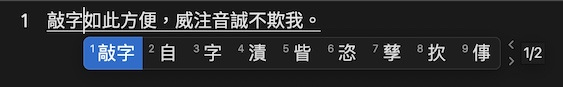
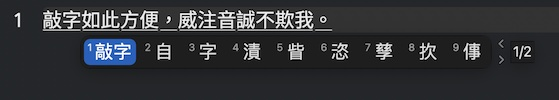
Update version notice: v1.9.3 for macOS.

diff --git a/README.md b/README.md
@@ -7,20 +7,17 @@ nav_order: 1
 
 | 作業系統 (至少) | 下載及發行說明 | 更新履歷 | 程式碼倉庫 | 版本＆日期 |
 |-------|----|----|----|----|
-| macOS (10.11.5) | [GitHub](https://github.com/vChewing/vChewing-macOS/releases), [Gitee](https://gitee.com/vChewing/vChewing-macOS/releases) | [GitHub](https://github.com/vChewing/vChewing-macOS/wiki/%E6%9B%B4%E6%96%B0%E5%B1%A5%E6%AD%B7), [Gitee](https://gitee.com/vChewing/vChewing-macOS/wikis/sort_id=5401886) | [GitHub](https://github.com/vChewing/vChewing-macOS/), [Gitee](https://gitee.com/vChewing/vChewing-macOS/) | 1.9.1 SP2 (Aug 11, 2022) |
+| macOS (10.11.5) | [GitHub](https://github.com/vChewing/vChewing-macOS/releases), [Gitee](https://gitee.com/vChewing/vChewing-macOS/releases) | [GitHub](https://github.com/vChewing/vChewing-macOS/wiki/%E6%9B%B4%E6%96%B0%E5%B1%A5%E6%AD%B7), [Gitee](https://gitee.com/vChewing/vChewing-macOS/wikis/sort_id=5401886) | [GitHub](https://github.com/vChewing/vChewing-macOS/), [Gitee](https://gitee.com/vChewing/vChewing-macOS/) | 1.9.3 (Aug 14, 2022) |
 
 - 請參閱[《鍵盤熱鍵使用手冊》](./manual/shortcuts.md)以提升該輸入法的使用效率。
 - 另有[熱心網友製作的 Homebrew-Cask 安裝方式](https://github.com/windwords/homebrew-vchewing)可用。
 
-部分近期更新內容（v1.9.1 SP2 for macOS）：
+部分近期更新內容：
 
-- 針對 macOS 10.15 Catalina 啟用新版偏好設定視窗（之前僅對 macOS 11 開始的系統開放）。
-- 修正了針對舊版系統（macOS 10.11-14）的偏好設定視窗當中的一處開關失效故障。
-- 修正了天權星組字引擎 2.0.0 內部的某處不慎引入的缺陷，現在應該不會再崩潰了。
-- 針對所有類型的使用者語彙檔案，新增了可以應對「以大寫字母書寫的漢語拼音」的能力。
-- 載入使用者語言模組時，現在會根據某些功能模式的開關狀態按需載入。
-- 優化了在將拼音字串轉注音時的效率。這有助於提升使用者語彙檔案的載入速度。
-- 允許採用特殊手段修改逐字選字模式下的候選字的排序（下文會有介紹）。
+- [1.9.3] 允許在偏好設定面板的「開發道場」頁面徹底停用「Shift 鍵切換中英文輸入模式」、抑或是指定 Shift 鍵判定相容性處理的有效作用 App 範圍。
+- [1.9.2-1.9.3] 在「開發道場」內引入了實驗性的 IMK 選字窗支援（橫向的話則是 IMK 矩陣視窗）。
+- [1.9.2-1.9.3] 在偏好設定面板內引入了「開發道場」頁面、專門用來放置一些實驗性的功能。
+- [1.9.2] 修正了（在選詞範圍 Range 超出讀音陣列容量的情況下）加詞時「會因為字數與讀音數不批配」而導致的輸入法崩潰的問題。
 
 本文的 FAQ 會不定期更新來自 PTT 的提問。
 
@@ -31,8 +28,8 @@ nav_order: 1
 該輸入法恐怕是截至目前為止**在功能多樣性方面**最強的第三方免費 macOS 系統專用輸入法，採純 Swift 語言寫就。威注音的著力點不是去想著怎麼用指針，而是盡可能在力所能及的範圍內將整個產品的功能做得更好用。
 
 ![選字窗有頁碼提示。](assets/CandidateSelection.jpg)
-
 ![就地刪詞功能，隨時隨地將不想要的詞音配對塞入排除表內。](assets/CandidateFiltering.jpg)
+![IMK 選字窗。](assets/CandidateSelectionIMK.jpg)
 
 威注音的幾個產品目標：
 
@@ -113,6 +110,23 @@ Mac OS X 10.11.5 以上版本（因為要求至少 Unicode 8.0）。
 ### 問：威注音輸入法的圖示當中的「ㄋ」是？
 
 威注音的圖示「ㄋ」取自 Komica 糟糕島流行的與劉寶傑有關的梗「[貼ㄋㄟㄋㄟ救寶傑](https://disp.cc/b/Joke/2sZ0)」。
+
+
+### 問：選字窗可以改成 macOS 內建注音那種橫版陣列型選字窗嗎？
+
+您可能想說的是 IMK 選字窗。IMK 選字窗是 macOS 內建的 InputMethodKit 輸入法開發套裝模組當中的 IMKCandidates 子模組所實現的東西。但是，Zonble 十幾年前證明過了、且威注音這邊最近也再次證明了：IMKCandidates 在這十幾年以來一直都是爛貨、是能將賈伯斯氣得從棺材裡爬出來的殘次品。如果這個模組的研發團隊有設計過單元測試的話，他們自己明明就可以發現這些低級智障問題。但他們選擇了裝鴕鳥，給系統內建的輸入法用了一個 IMKCandidates 的克隆版本、僅供 Apple 內部使用（感興趣的話可以自行對 InputMethodKit 逆向工程）。至於給副廠輸入法開發者使用的 IMKCandidates 再怎樣殘障，他們這十幾年來一直都沒有在管。
+
+由於 IMK 橫版陣列型選字窗的功能特性獨此一家，使得第三方輸入法開發者想在功能方面「複製體驗」簡直難比登天。迄今為止對此操作體驗複製得最接近的是搜狗拼音輸入法，但在使用體驗角度來看仍舊遠遠落後於 IMK 橫版陣列選字窗。
+
+威注音輸入法自 v1.9.2 版開始，在偏好設定內引入了專門用來提供「出了錯誤不負責」的名為「開發道場」的實驗田，且在其中集成了威注音的 IMK 選字窗模式的開關、允許使用者在 IMK 選字窗與迄今為止的 Voltaire MK3 選字窗之間來回切換。之後，威注音輸入法在 v1.9.3 版當中將這個選字窗做得幾乎接近於能用的狀態。可以[點此閱讀使用說明](./manual/shortcuts.md)。然而，該選字窗仍舊有下述功能無法實現：
+
+- 選字鍵不起作用。IMK 選字窗的 setSelectionKeys() 與 setSelectionKeysKeylayout() 函數都不會起任何正面作用（前者用了反而會讓選字窗連選字鍵標記都不顯示）。不知道 Apple 的相關單元測試工程師閒了多少年（至少也得有十幾年了），都沒想過要去寫單元測試來檢查這種低級缺陷的存無。
+- 選字窗字號大小無法調整。
+- IMK 選字窗本身會被 Spotlight 視窗蓋住，且目前尚無手段強制修改其視窗顯示優先層級。偏偏 macOS 系統內建輸入法用的是 IMK 的非公開變種、就沒有這種問題。氣不氣人？
+
+此外，IMKCandidates 還有一個缺陷：當候選字詞陣列內出現了「候選字詞相同（往往是 Emoji）、但讀音數（幅位長度）不同」的多個候選字詞時，只有讀音數最多的那個候選字會生效：你選其它更短的讀音數的同名候選字，也只會被認為是選了讀音數最多的那個候選字。該問題的原因在於 IMK 選字窗不允許你獲取「被選取的候選字詞在候選字詞陣列當中的排序編號」這個極為重要的資訊、也不允許你藉由 candidates() 生成的 NSAttributedString 往 candidateSelected() 攜帶候選字詞的讀音資料（.attachment 也好，.tooltip 也好，這些資料都會被 IMK 濾除掉），自然無法在 candidateSelected() 函數內將 fixNode() 的行為用讀音來精準化。威注音輸入法在 v1.9.3 版當中引入了一個保守治療方法，代價就是會讓某些候選字在選字窗內顯示時變得又臭又長。
+
+結論：很多使用者都希望能在自己喜歡的副廠輸入法內用上 IMK 的矩陣選字窗（就是 macOS 系統內建的注音輸入法的橫版矩陣選字窗）。然而，經過這些天的研究，威注音輸入法團隊不得不認清（目前能推斷出來的）唯一可能事實：IMK 選字窗充其量也只是 Apple 用來滿足自家輸入法需求的產品部件、一開始就沒有讓副廠輸入法廠商用得爽的打算。
 
 ### 問：怎樣才能繞過組字區直接輸入大寫或小寫英文字母？
 
@@ -200,7 +214,9 @@ Mac OS X 10.11.5 以上版本（因為要求至少 Unicode 8.0）。
 
 ### 問：選字鍵可以改 ASDF 之類的嗎？
 
-在偏好設定的第二頁可以改，輸入的選字鍵序列會被自動去重複、再做合規性判定。
+威注音輸入法預設的選字窗可以修改選字鍵：在偏好設定的第二頁或者第四頁可以改（取決於你在用的 macOS 系統版本），輸入的選字鍵序列會被自動去重複、再做合規性判定。
+
+偏好設定介面內的開發道場裡面的 IMK 選字窗是無法修改選字鍵的、且根本連預設的選字鍵都失效。因為 macOS 內建的 IMK 選字窗模組十幾年來都沒被修正的缺陷的存在，威注音的 IMK 選字窗無法實現這些功能。
 
 ### 問：請問可以自己增加字庫嗎？
 

diff --git a/manual/shortcuts.md b/manual/shortcuts.md
@@ -73,7 +73,7 @@ nav_order: 80
 | ⎋ | 清空整個組字區 | 可在偏好設定內停用，屆時僅會清空注拼槽。 |
 | 右⇧<br />左⇧ | 切換英數輸入模式的開關。 | 左⇧可在偏好設定內停用。 |
 
-下述熱鍵則為**選字窗正在顯示（也就是你正在選字）時**可以用的功能：
+下述熱鍵則為**預設 Voltaire MK3 選字窗正在顯示（也就是你正在選字）時**可以用的功能：
 
 | 熱鍵 | 功能 | 備註 |
 |-:|-|-|
@@ -84,5 +84,19 @@ nav_order: 80
 | ↖<br />↘ | 選中第一個候選字<br />選中最後一個候選字 | 多餘的操作會觸發蜂鳴。 |
 | ⎋<br />⌫<br />⌦<br />⇧→<br />⇧← | 回退到上一層符號選單、或關掉選字窗 | 不是波浪符號選單的場合，一律關掉選字窗。<br />其中，Esc 按鍵會直接導致 Spotlight 關閉。 |
 | 摁住 ⇧<br />敲選字鍵 | 選擇指定的聯想候選詞（會有^標記） | 與奇摩輸入法行為一致。 |
+
+下述熱鍵則為在開發道場內啟用的**IMK 選字窗正在顯示（也就是你正在選字）時**可以用的功能：
+
+（所述「行」均指橫行。）
+
+| 熱鍵 | 功能 | 備註 |
+|-:|-|-|
+| ⏎ | 確認選字窗內的當前候選字 | 聯想詞選字時，該功能可在偏好設定內啟用或停用。 |
+| ⇥<br />⇧⇥ | 選字窗內選中下一個候選字（正向輪替）<br />選字窗內選中上一個候選字（反向輪替） | 可以在偏好設定內更改輪替對象為頁，但是有例外：<br />當候選字詞只有一頁時，輪替對象仍為候選字詞本身。 |
+| ␣<br />⇧ ␣ | 正向輪替頁面或者陣列行 | 當候選字詞只有一頁/一行、<br />或者在最末/最初行時，<br />不會從最初/最末行繼續輪替。 |
+| ⇞<br />⇟ | 翻頁/輪替陣列行 | 候選字詞只有一頁時，輪替對象為候選字詞本身。 |
+| ⎋<br />⌫<br />⌦<br />⇧→<br />⇧← | 回退到上一層符號選單、或關掉選字窗 | 不是波浪符號選單的場合，一律關掉選字窗。<br />其中，Esc 按鍵會直接導致 Spotlight 關閉。 |
+
+IMK 選字窗因為 IMKCandidates 自身缺陷的原因，無法將體驗做得完美。平日使用時還請使用預設的 Voltaire MK3 選字窗。
 
 $ EOF.
